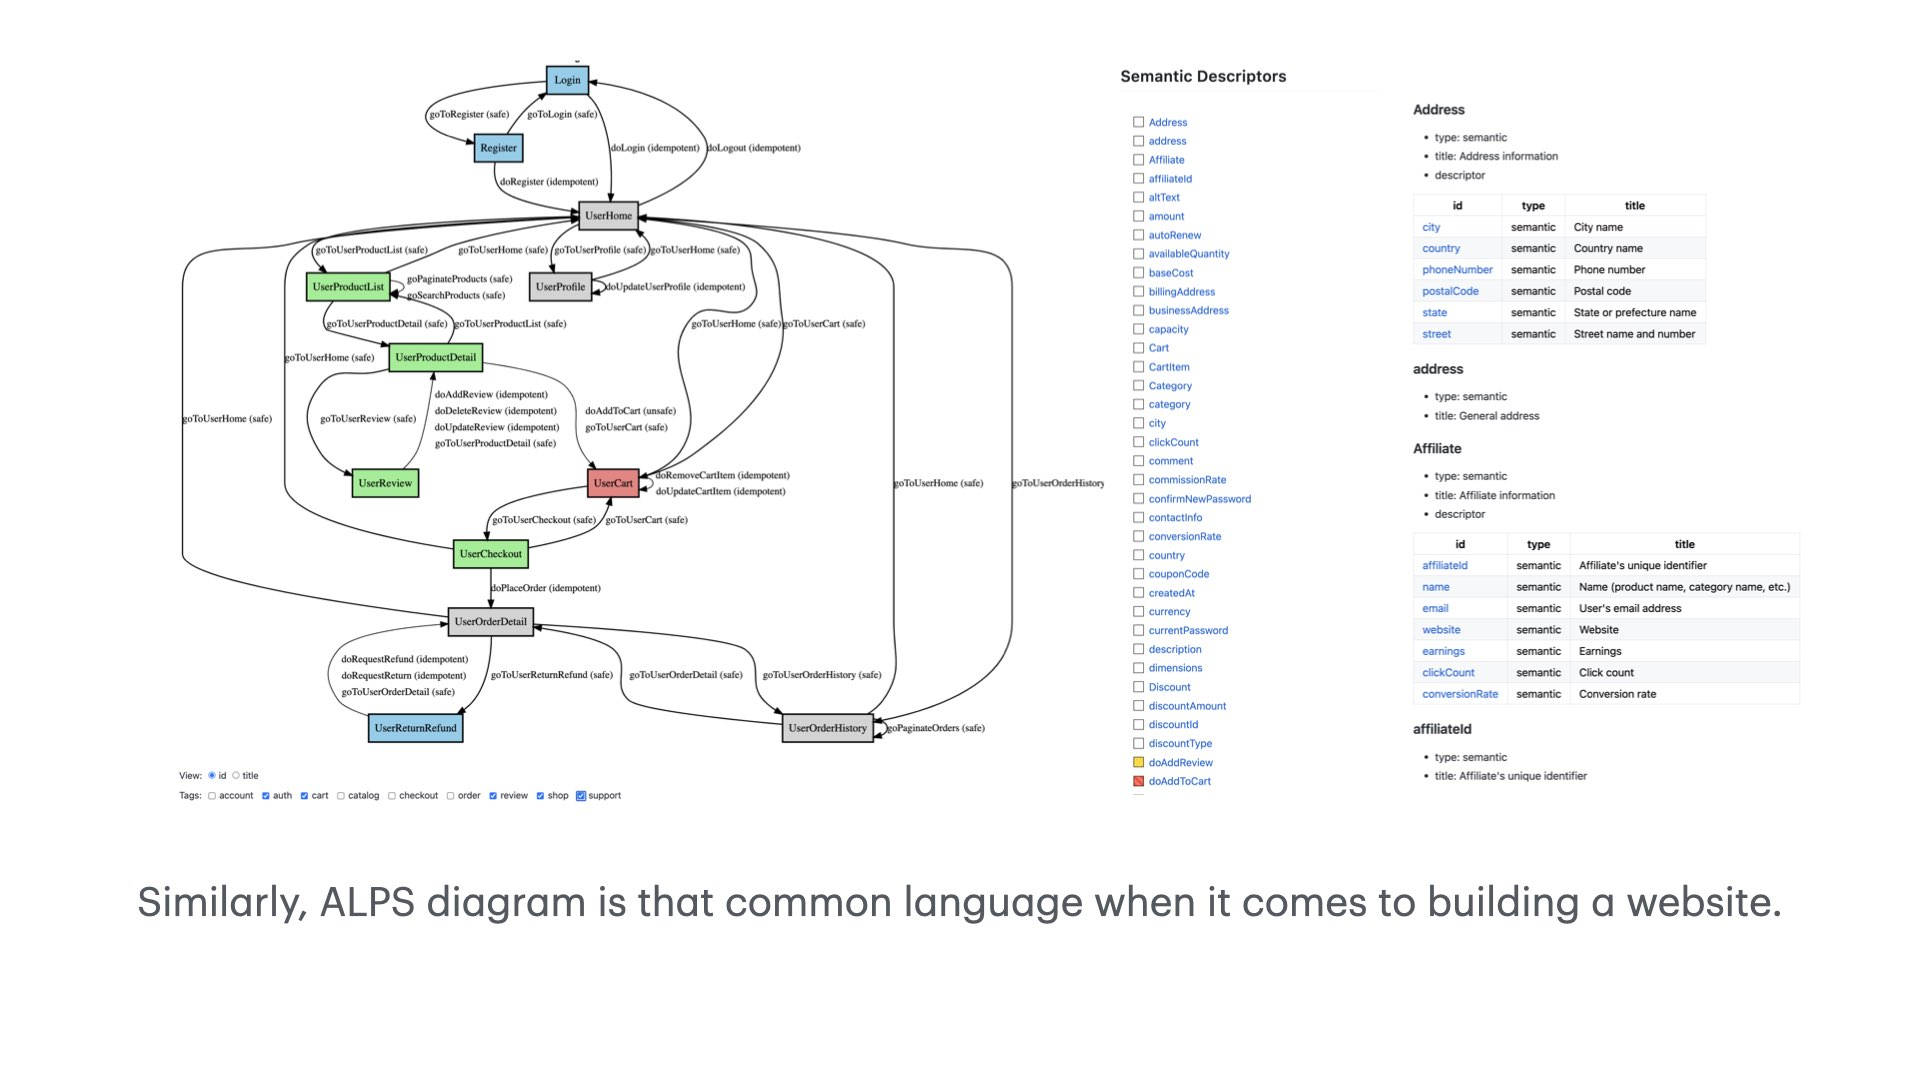
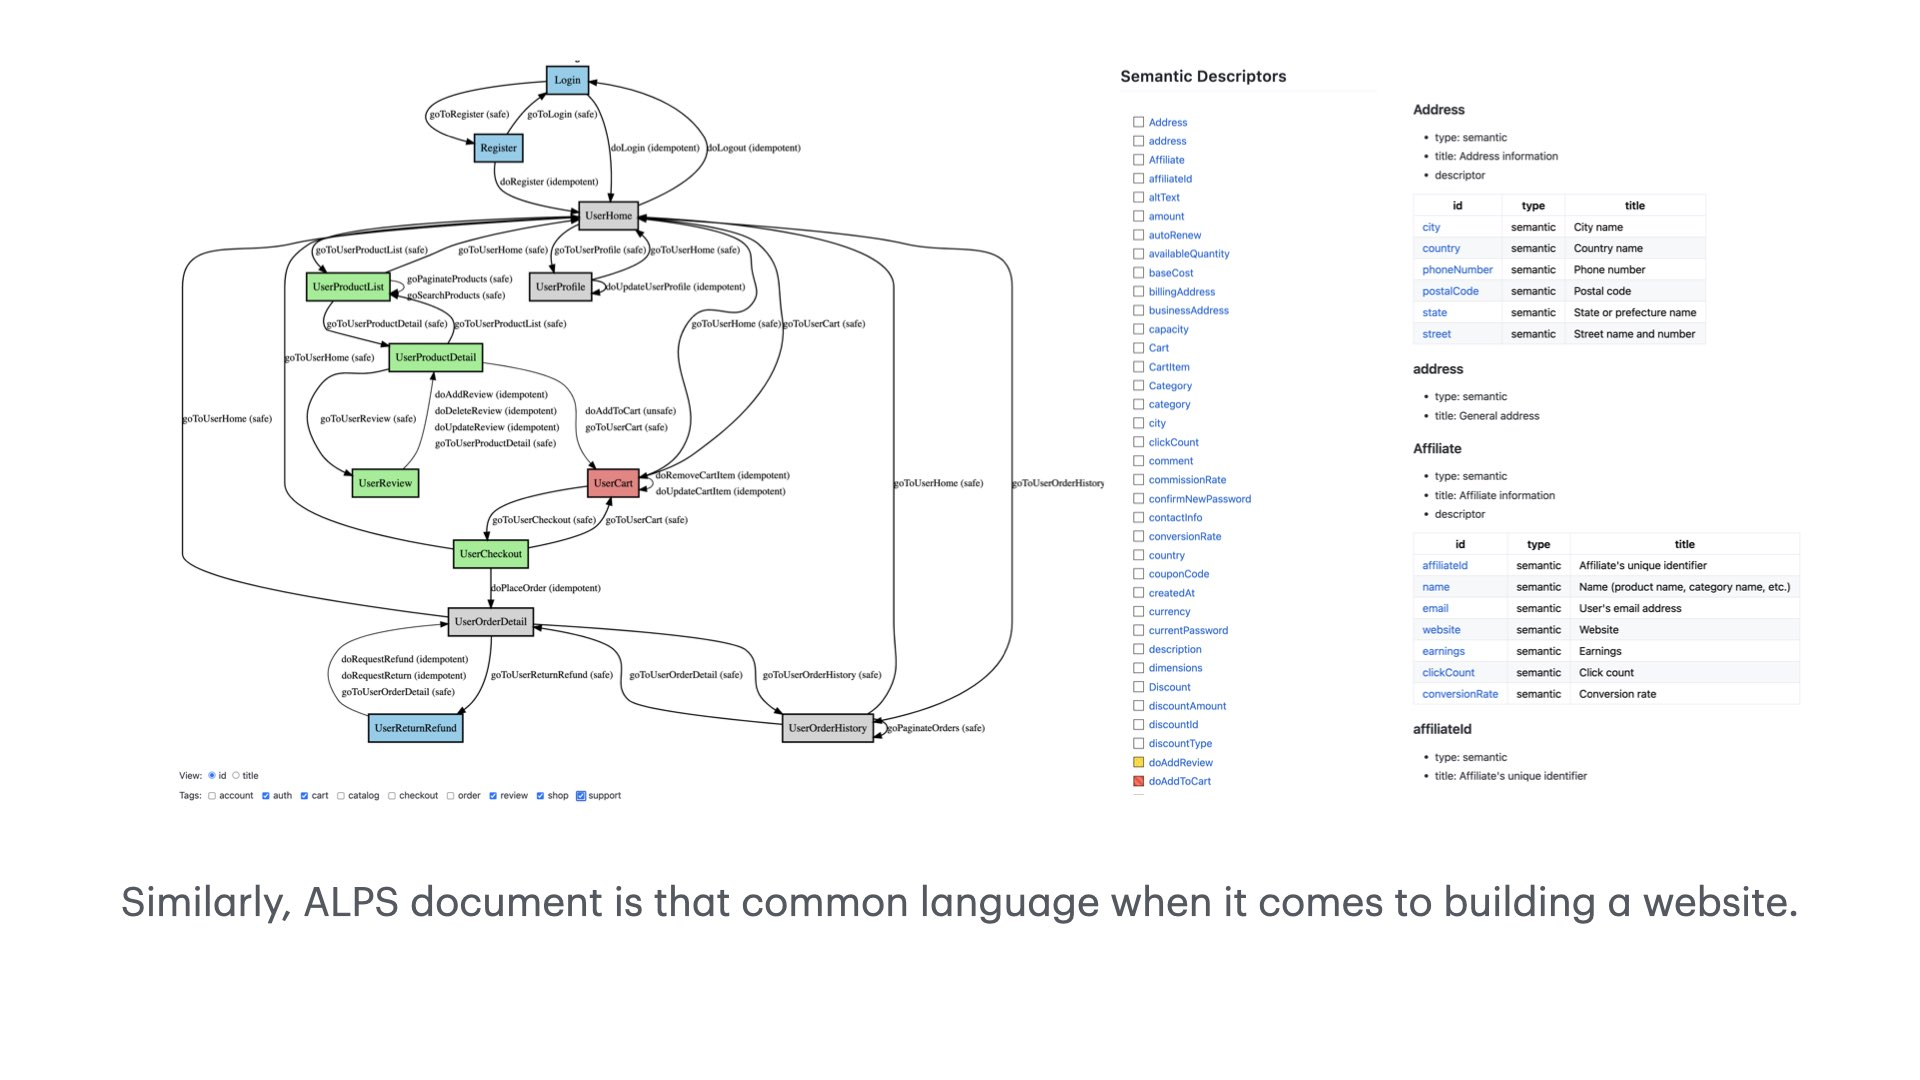
Update terminology from 'diagram' to 'document'
Changed the term "ALPS diagram" to "ALPS document" in the slide manual to more accurately describe its purpose. This correction improves clarity and alignment with standard terminology used in related documentation.

Changed region(s): [[0.0625, 0.825, 0.9375, 0.8556]]

diff --git a/manuals/slide.md b/manuals/slide.md
@@ -7,5 +7,5 @@ permalink: /slide.html
 
 <img src="/images/slide/app-state-diagram.001.jpeg" alt="When building a house, we don't rely solely on pictures or perspective drawings.">
 <img src="/images/slide/app-state-diagram.002.jpeg" alt=" Instead, we use an abstract floor plan, which serves as a common language for users, designers, and builders">
-<img src="/images/slide/app-state-diagram.003.jpeg" alt="Similarly, ALPS diagram is that common language when it comes to building a website.">
+<img src="/images/slide/app-state-diagram.003.jpeg" alt="Similarly, ALPS document is that common language when it comes to building a website.">
 <img src="/images/slide/app-state-diagram.004.jpeg" alt="It's not just API design;  It's a framework for organizing, accessing, and evolving the core business knowledge.">
